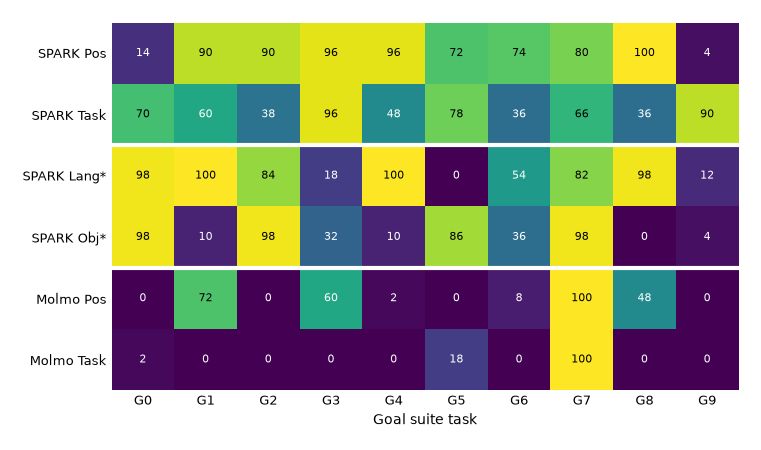
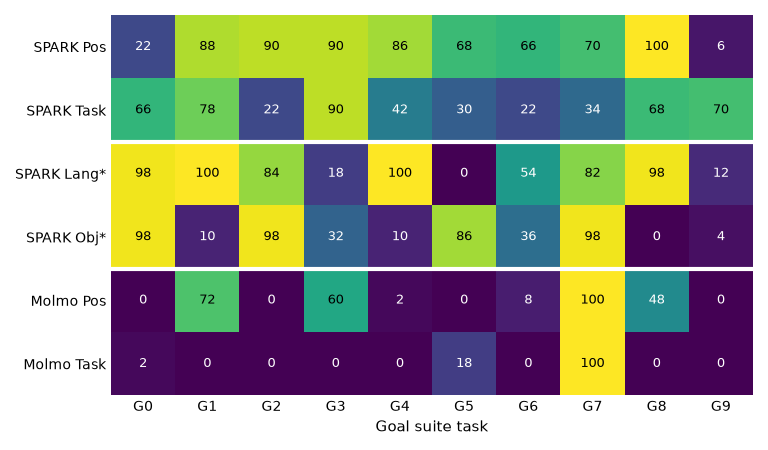
Numbers, tables and charts match the paper

diff --git a/index.html b/index.html
@@ -4,18 +4,18 @@
 <meta charset="utf-8">
 <meta name="viewport" content="width=device-width,initial-scale=1">
 <title>SPARK: Sequential Planning via Anchored Robotic Keypoints</title>
-<meta name="description" content="SPARK separates a task's symbolic plan from its execution-time perceptual grounding: 75.1% mean success on six LIBERO-PRO settings and 68% across eleven physical task-embodiment settings on three robot platforms, without task-specific model training.">
+<meta name="description" content="SPARK separates a task's symbolic plan from its execution-time perceptual grounding: 77.8% mean success on six LIBERO-PRO settings and 75% across eleven physical task-embodiment settings on three robot platforms, without task-specific model training.">
 <!-- Open Graph / Twitter social preview card -->
 <meta property="og:type" content="website">
 <meta property="og:url" content="https://cwru-aism.github.io/spark-page/">
 <meta property="og:title" content="SPARK: Sequential Planning via Anchored Robotic Keypoints">
-<meta property="og:description" content="Separating a task's symbolic plan from its execution-time perceptual grounding: 75.1% on six LIBERO-PRO settings and 68% across eleven physical task-embodiment settings on three robot platforms, without task-specific model training.">
+<meta property="og:description" content="Separating a task's symbolic plan from its execution-time perceptual grounding: 77.8% on six LIBERO-PRO settings and 75% across eleven physical task-embodiment settings on three robot platforms, without task-specific model training.">
 <meta property="og:image" content="https://cwru-aism.github.io/spark-page/static/media/og_preview.jpg">
 <meta property="og:image:width" content="1200">
 <meta property="og:image:height" content="628">
 <meta name="twitter:card" content="summary_large_image">
 <meta name="twitter:title" content="SPARK: Sequential Planning via Anchored Robotic Keypoints">
-<meta name="twitter:description" content="Separating a task's symbolic plan from its execution-time perceptual grounding: 75.1% on six LIBERO-PRO settings and 68% across eleven physical task-embodiment settings on three robot platforms, without task-specific model training.">
+<meta name="twitter:description" content="Separating a task's symbolic plan from its execution-time perceptual grounding: 77.8% on six LIBERO-PRO settings and 75% across eleven physical task-embodiment settings on three robot platforms, without task-specific model training.">
 <meta name="twitter:image" content="https://cwru-aism.github.io/spark-page/static/media/og_preview.jpg">
 <link rel="image_src" href="static/media/og_preview.jpg">
 <link rel="icon" type="image/png" href="static/media/favicon.png">
@@ -107,11 +107,11 @@
             current 3D observations when each action is called. By verifying the plan at runtime we can recover from
             failures locally and anchor the objects to the scene again. We ask for a new plan only if this fails. We
             isolate this concept by taking a fixed plan and moving objects in the scene while executing. When
-            displacing objects by 10&nbsp;cm we were still able to complete <strong>66.7%</strong> of trials with
+            displacing objects by 10&nbsp;cm we were still able to complete <strong>60.0%</strong> of trials with
             scene-diff verification and layered recovery, and we did not have to change the plan. We test our full system, with one open-weight 27B planner with 4-bit weights, on LIBERO-PRO.
-            SPARK achieves a mean success of <strong>75.1%</strong> across the 6 position and task settings and
-            <strong>69.7%</strong> on the language and object settings. We also achieve a
-            <strong>68%</strong> success rate across 11 physical task-embodiment settings on 3 different robots. Our
+            SPARK achieves a mean success of <strong>74.4%</strong> across the 6 position and task settings when the robot decides to retry from its own checks, and
+            <strong>77.8%</strong> when it also reads a success check after each attempt, as in prior work. We also achieve a
+            <strong>75%</strong> success rate across 11 physical task-embodiment settings on 3 different robots. Our
             work demonstrates that for an important class of failures, the robot does not need to ask for a new plan
             for its task. It can be enough to update the system's view of the world.
           </p>
@@ -138,7 +138,7 @@
         <div class="content has-text-justified">
           <p>
             SAM3 grounds the objects seen by the platform cameras. The
-            LIBERO-PRO results use the open-weight Qwen3.8-27B with 4-bit weights, served locally; the physical robots use Gemini. Actions reference objects by label, and at execution time
+            LIBERO-PRO results use the open-weight Qwen3.8-27B with 4-bit weights, served locally. The UR10e uses the same planner, and the FR3 and bimanual setups use Gemini. Actions reference objects by label, and at execution time
             each label is grounded to a current 3D position. A modified instruction can invalidate the plan, while a
             moved object only makes the plan's object locations incorrect. Putting the bowl on the plate should use the same
             score whether the bowl started on the left or the right. SPARK keeps the plan and updates what perception says about the scene.
@@ -174,8 +174,9 @@
         <h3 class="title is-5 has-text-centered">LIBERO-PRO</h3>
         <p class="has-text-centered content">
           Success rates (%) on six settings: three suites, each with position (Pos) and task (Task) perturbations, 10
-          tasks &times; 50 trials on LIBERO-PRO's own initial states. SPARK uses the open-weight Qwen3.8-27B planner. As in the RATS evaluation, a
-          success check after each attempt decides whether to retry.
+          tasks &times; 50 trials on LIBERO-PRO's own initial states. SPARK uses the open-weight Qwen3.8-27B planner. Under the RATS protocol a
+          success check after each attempt decides whether to retry, as in the RATS evaluation. Under the strict protocol only the robot's own
+          checks decide, and the success check is read once at the end of the episode.
         </p>
         <div style="overflow-x:auto;">
         <table class="result-table">
@@ -190,7 +191,8 @@
             <tr><td>CaP-Agent0</td><td>22</td><td>18</td><td>26</td><td>17</td><td>12</td><td>14</td><td>18.2</td></tr>
             <tr><td>CaP-Agent0 (RATS eval)</td><td>27.0</td><td>31.0</td><td>29.0</td><td>16.0</td><td>13.0</td><td>23.0</td><td>23.2</td></tr>
             <tr><td>RATS</td><td>61.0</td><td>63.0</td><td>43.0</td><td>36.0</td><td>29.0</td><td>31.0</td><td>43.8</td></tr>
-            <tr class="ours rule"><td>SPARK (ours)</td><td>86.4</td><td>82.4</td><td>71.6</td><td>61.8</td><td>65.4</td><td>83.0</td><td>75.1</td></tr>
+            <tr class="ours rule"><td>SPARK, RATS protocol (ours)</td><td>87.8</td><td>96.0</td><td>68.6</td><td>52.2</td><td>78.0</td><td>84.2</td><td>77.8</td></tr>
+            <tr class="ours"><td>SPARK, strict (ours)</td><td>84.0</td><td>94.6</td><td>62.2</td><td>44.2</td><td>78.8</td><td>82.8</td><td>74.4</td></tr>
           </tbody>
         </table>
         </div>
@@ -200,16 +202,15 @@
           LIBERO checkpoint.
         </p>
         <p class="has-text-centered content">
-          SPARK reaches <strong>75.1%</strong> mean success, 31.3 points above RATS at 43.8%. On the language and object settings, SPARK averages
-          <strong>69.7%</strong> (object 92.4 and 77.4, goal 64.6 and 47.2, spatial 50.8 and 85.8). When retries are
-          decided only by the robot's own grasp and scene checks and the success check runs once after execution,
-          SPARK scores 67.5% on the same six settings.
+          Under the RATS protocol SPARK reaches <strong>77.8%</strong> mean success, 34.0 points above RATS at 43.8%. Under the strict
+          protocol it reaches <strong>74.4%</strong>. On the language and object settings, which were not used to develop the grounding rules,
+          SPARK averages <strong>69.7%</strong> under the RATS protocol (object 92.4 and 77.4, goal 64.6 and 47.2, spatial 50.8 and 85.8).
         </p>
 
         <figure class="result-fig">
           <img src="static/media/figs/libero_persuite.png" alt="LIBERO-PRO success rates per setting by method, from the table above">
           <figcaption>
-            The table above as a chart. OpenVLA and &pi;<sub>0</sub> score 0 in every cell.
+            The table above as a chart, with SPARK under the RATS protocol. OpenVLA and &pi;<sub>0</sub> score 0 in every cell.
           </figcaption>
         </figure>
 
@@ -218,31 +219,37 @@
           <img src="static/media/figs/libero_heatmap_object.png" alt="Per-task LIBERO-PRO success, object suite">
           <img src="static/media/figs/libero_heatmap_goal.png" alt="Per-task LIBERO-PRO success, goal suite">
           <figcaption>
-            Per-task success (%), 50 trials per task. Rows: SPARK position and task, SPARK on the language and object settings (*), and MolmoAct2 position and task.
+            Per-task success (%), 50 trials per task, RATS protocol. Rows: SPARK position and task, SPARK on the language and object settings (*), and MolmoAct2 position and task.
           </figcaption>
         </figure>
 
         <h3 class="title is-5 has-text-centered" style="margin-top:2.6rem;">Recovering when objects move (LIBERO-Displace)</h3>
         <p class="has-text-centered content">
-          Identical scripted plans run with scene-diff verification and layered recovery switched on or off together,
-          on three object-suite tasks, three injection phases, and five initial states: 45 trials per displacement.
-          The object slides by 0 to 10 cm over 40 simulator steps on the same seeded schedule in both conditions, and
-          object detections update between primitives in both. The planner is not in the loop.
+          The pick target slides by 0 to 10 cm over 40 simulator steps at one of three points in the episode, on the same
+          seeded schedule for every arm: 10 object-suite tasks, three displacement phases and five initial states, 150 trials
+          per cell. Each recovery mechanism is switched on by itself, with the plan source, skills, executor and perception held
+          fixed. Scene diff checks for object motion during each move and retargets the move. The ladder re-binds to new
+          detections, then retries locally, then asks for a new plan. Only the robot's own checks start a recovery.
         </p>
-        <table class="result-table" style="max-width:560px;">
+        <div style="overflow-x:auto;">
+        <table class="result-table" style="max-width:760px;">
           <thead>
-            <tr><th>Verification and recovery</th><th>0 cm</th><th>2 cm</th><th>5 cm</th><th>10 cm</th></tr>
+            <tr><th rowspan="2">Recovery</th><th colspan="4">Scripted plans</th><th colspan="4">Planner-written plans</th></tr>
+            <tr><th>0 cm</th><th>2 cm</th><th>5 cm</th><th>10 cm</th><th>0 cm</th><th>2 cm</th><th>5 cm</th><th>10 cm</th></tr>
           </thead>
           <tbody>
-            <tr class="ours"><td>Enabled</td><td>39/45</td><td>37/45</td><td>35/45</td><td>30/45</td></tr>
-            <tr><td>Disabled</td><td>33/45</td><td>26/45</td><td>7/45</td><td>1/45</td></tr>
+            <tr><td>Off</td><td>117</td><td>87</td><td>14</td><td>3</td><td>120</td><td>104</td><td>72</td><td>71</td></tr>
+            <tr><td>Scene diff</td><td>105</td><td>82</td><td>43</td><td>8</td><td>123</td><td>101</td><td>80</td><td>73</td></tr>
+            <tr><td>Ladder</td><td>120</td><td>108</td><td>79</td><td>88</td><td>120</td><td>109</td><td>85</td><td>90</td></tr>
+            <tr class="ours"><td>Scene diff + ladder</td><td>123</td><td>101</td><td>84</td><td>90</td><td>123</td><td>109</td><td>99</td><td>107</td></tr>
           </tbody>
         </table>
+        </div>
         <p class="has-text-centered content">
-          At 10 cm, verification and recovery let SPARK succeed in 30 of 45 trials (<strong>66.7%</strong>), against
-          1 of 45 without. The gap grows from six trials at 0 cm to twenty-nine at 10 cm, and the plan does not change
-          in any trial. As in the LIBERO-PRO table, a success check after each attempt can also trigger recovery. When
-          only the robot's own checks trigger it, the 10 cm cell is 12/45 against 1/45.
+          Successes out of 150. At 10 cm with identical scripted plans, scene diff and the ladder succeed in 90 of 150 trials
+          (<strong>60.0%</strong>), against 3 of 150 with neither, and the scripted plan does not change. With planner-written plans they
+          succeed in 107 of 150 trials, against 71. On the same displaced trials the ladder succeeds in 91 of 150 trials at 10 cm and
+          asking for a new plan after each failure in 72.
         </p>
 
         <h3 class="title is-5 has-text-centered" style="margin-top:2.6rem;">CaP-Bench (Robosuite)</h3>
@@ -256,33 +263,35 @@
 
         <h3 class="title is-5 has-text-centered" style="margin-top:2.6rem;">Physical experiments</h3>
         <p class="has-text-centered content">
-          The same BT grammar, Gemini planning call, and SAM3 pipeline run on UR10e, Franka FR3, and a bimanual
-          Franka setup, without task-specific model training. Nine tasks span three embodiments (eleven
+          The same BT grammar and SAM3 pipeline run on UR10e, Franka FR3, and a bimanual
+          Franka setup, without task-specific model training. The UR10e rows use the Qwen3.8-27B planner of the LIBERO-PRO table, and the
+          FR3 and bimanual rows use Gemini 3.5 Flash. Nine tasks span three embodiments (eleven
           task-embodiment cells), 20 trials per cell, objects randomly placed and rotated per trial. All
           physical runs use hardware depth and single-description perception.
         </p>
-        <table class="result-table" style="max-width:520px;">
+        <table class="result-table" style="max-width:640px;">
           <thead>
-            <tr><th>Embodiment</th><th>Task</th><th>Success (%)</th></tr>
+            <tr><th>Embodiment</th><th>Task</th><th>Planner</th><th>Success (%)</th></tr>
           </thead>
           <tbody>
-            <tr><td>UR10e</td><td>Utensils in bowl</td><td>55</td></tr>
-            <tr><td>UR10e</td><td>Utensils in tray</td><td>90</td></tr>
-            <tr><td>UR10e</td><td>Plushie in bowl</td><td>100</td></tr>
-            <tr><td>UR10e</td><td>Stack blocks</td><td>65</td></tr>
-            <tr><td>FR3</td><td>Utensils in tray</td><td>80</td></tr>
-            <tr><td>FR3</td><td>Sponge-wash plate</td><td>100</td></tr>
-            <tr><td>FR3</td><td>Mug pour</td><td>65</td></tr>
-            <tr><td>FR3</td><td>Sweep to dustpan</td><td>55</td></tr>
-            <tr><td>FR3</td><td>T-shirt fold</td><td>50</td></tr>
-            <tr><td>Bimanual</td><td>T-shirt fold</td><td>30</td></tr>
-            <tr><td>Bimanual</td><td>Silverware sort</td><td>60</td></tr>
-            <tr class="ours rule"><td colspan="2">Mean (11 cells)</td><td>68</td></tr>
+            <tr><td>UR10e</td><td>Utensils in bowl</td><td>Qwen3.8-27B</td><td>90</td></tr>
+            <tr><td>UR10e</td><td>Utensils in tray</td><td>Qwen3.8-27B</td><td>100</td></tr>
+            <tr><td>UR10e</td><td>Plushie in bowl</td><td>Qwen3.8-27B</td><td>100</td></tr>
+            <tr><td>UR10e</td><td>Stack blocks</td><td>Qwen3.8-27B</td><td>95</td></tr>
+            <tr><td>FR3</td><td>Utensils in tray</td><td>Gemini 3.5 Flash</td><td>80</td></tr>
+            <tr><td>FR3</td><td>Sponge-wash plate</td><td>Gemini 3.5 Flash</td><td>100</td></tr>
+            <tr><td>FR3</td><td>Mug pour</td><td>Gemini 3.5 Flash</td><td>65</td></tr>
+            <tr><td>FR3</td><td>Sweep to dustpan</td><td>Gemini 3.5 Flash</td><td>55</td></tr>
+            <tr><td>FR3</td><td>T-shirt fold</td><td>Gemini 3.5 Flash</td><td>50</td></tr>
+            <tr><td>Bimanual</td><td>T-shirt fold</td><td>Gemini 3.5 Flash</td><td>30</td></tr>
+            <tr><td>Bimanual</td><td>Silverware sort</td><td>Gemini 3.5 Flash</td><td>60</td></tr>
+            <tr class="ours rule"><td colspan="3">Mean (11 cells)</td><td>75</td></tr>
           </tbody>
         </table>
         <p class="has-text-centered content">
-          SPARK succeeds in 150 of 220 trials (<strong>68.2%</strong>). The same utensils-in-tray task runs on
-          two platforms: UR10e 18/20 (90%, Wilson 95% interval [70, 97]%) and FR3 16/20 (80%, [58, 92]%). On
+          SPARK succeeds in 165 of 220 trials (<strong>75.0%</strong>). The same utensils-in-tray task runs on
+          two platforms: UR10e 20/20 and FR3 16/20. With objects moved by hand during the episode, the UR10e completes 10/10
+          Utensils in tray, Stack blocks and Plushie in bowl trials and 8/10 Utensils in bowl trials. On
           the bimanual platform, sleeve folding succeeds in 15/20 trials, while the complete three-fold sequence
           succeeds in 6/20.
         </p>
